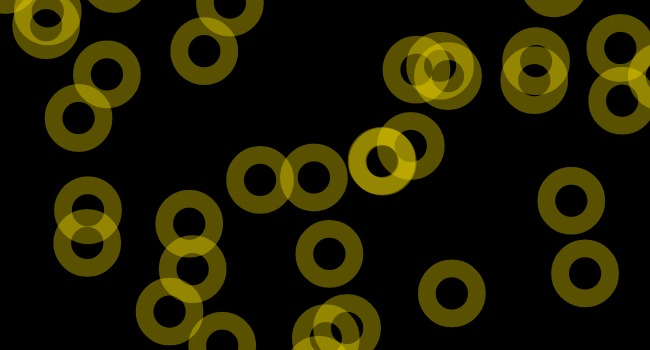
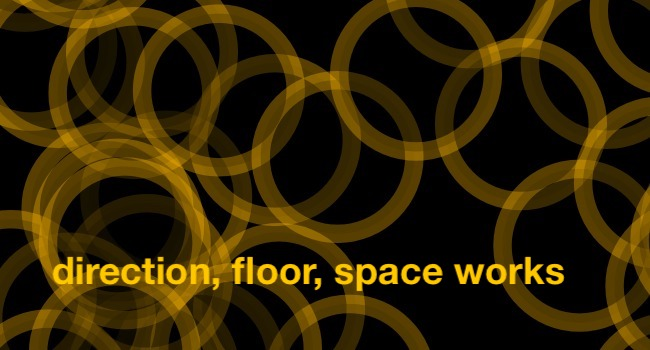
responsive

diff --git a/_01-Generated/10_02/sketch.js b/_01-Generated/10_02/sketch.js
@@ -5,6 +5,7 @@ let objects;
 let particleCount;
 let thickness;
 
+
 function setup() {
   background(0);
   p5.disableFriendlyErrors = true; // disables FES
@@ -12,31 +13,32 @@ function setup() {
   initParticles(); //start
   createCanvas(windowWidth, windowHeight);
   startTime = new Date();
+  wid = windowHeight/50;
+  rideDuration = getRideDuration(toInt(key))
 }
 
 function draw() {
-  background(0);
-  rideDuration = getRideDuration(toInt(key));
-
   // Time since the sketch started
   let t = (new Date() - startTime) / 1000;
   stepSize = animate(t, 0, 2, rideDuration, 2.5)
 
   //Useful Parameters
-  particleStepMax = 1;
-  thickness = 5 + stepSize*50;
-
+  particleStepMax = 2;
+  thickness = wid + stepSize*wid;
+  console.log(thickness)
   //ellipsendarstellung
-  noFill()
+  background(0);
+  fill(0,50)
   stroke(250+(stepSize*200),180+(stepSize*200),0,50);
   strokeWeight(thickness);
 
-stepSize = (direction === 'up') ? +stepSize : -stepSize;
+  stepSize = (direction === 'up') ? +stepSize : -stepSize;
 
   particles.forEach(p => {
     p.move();
     p.draw();
   });
+
 }
 
 
@@ -59,13 +61,13 @@ Particle.prototype.move = function() {
 
 Particle.prototype.draw = function() {
   this.tail.forEach(pos => {
-    ellipse(this.pos.x, this.pos.y, 50);
+    ellipse(this.pos.x, this.pos.y, windowHeight/6);
   });
 }
 
 
 function keyPressed() {
-  if (keyCode === 32) setup() // 32 = Space
+  if (keyCode === 32)  init()// 32 = Space
   if (keyCode === 38) direction = 'up' // 38 = ArrowUp
   if (keyCode === 40) direction = 'down' // 40 = ArrowDown
   if (keyCode >= 48 && keyCode <= 57) rideDuration = getRideDuration(toInt(key)) // 48...57 = Digits
@@ -76,7 +78,18 @@ function initParticles() {
   particles = [];
   for(var i = 0; i < particleCount; i++) {
     particles.push(new Particle());
+    startTime = new Date();
   }
+}
+
+
+function init() {
+  particles = [];
+  for(var i = 0; i < particleCount; i++) {
+    particles.push(new Particle());
+  }
+  startTime = new Date();
+  stepSize = (direction === 'up') ? +stepSize : -stepSize;
 }
 
 function windowResized() {
